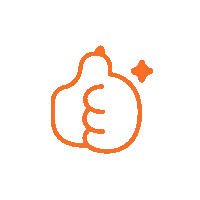
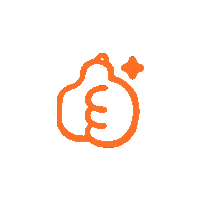
fix: 图标修改

Changed region(s): [[0.24, 0.21, 0.78, 0.78]]

diff --git a/src/pages/cats/social/detail.vue b/src/pages/cats/social/detail.vue
@@ -80,7 +80,7 @@
                       :src="
                         postDetail.is_liked === 1
                           ? '/static/images/unlike.png'
-                          : '/static/images/like.png'
+                          : '/static/images/zan0.33.png'
                       "
                       mode="aspectFit"
                       :style="{ opacity: postDetail.currentGif ? 0 : 1 }"
@@ -170,7 +170,7 @@
                             :src="
                               item.is_liked === 1
                                 ? '/static/images/unlike.png'
-                                : '/static/images/like.png'
+                                : '/static/images/zan0.33.png'
                             "
                             mode="aspectFit"
                             :style="{ opacity: item.currentGif ? 0 : 1 }"
@@ -250,7 +250,7 @@
                                     :src="
                                       reply.is_liked === 1
                                         ? '/static/images/unlike.png'
-                                        : '/static/images/like.png'
+                                        : '/static/images/zan0.33.png'
                                     "
                                     mode="aspectFit"
                                     :style="{ opacity: reply.currentGif ? 0 : 1 }"
@@ -990,7 +990,7 @@ const likePost = (id: number) => {
 
       setTimeout(() => {
         postDetail.value.currentGif = ''
-      }, 1000)
+      }, 800)
     })
     .finally(() => {
       // uni.hideLoading()
@@ -1022,7 +1022,7 @@ const likeComment = (item: any) => {
 
       setTimeout(() => {
         item.currentGif = ''
-      }, 1000)
+      }, 800)
     })
     .finally(() => {
       // uni.hideLoading()
@@ -1259,7 +1259,7 @@ const likeReply = async (replyItem: any, itemId: number) => {
 
           setTimeout(() => {
             targetReply.currentGif = ''
-          }, 1000)
+          }, 800)
         }
       }
     })
@@ -1684,15 +1684,15 @@ const handleOpenShare = (item: any) => {
             align-items: center;
             // justify-content: center;
             .zanWrapper {
-              width: 60rpx !important;
-              height: 60rpx !important;
+              width: 70rpx !important;
+              height: 70rpx !important;
               position: relative !important;
               display: inline-flex !important;
               align-items: center;
               justify-content: center;
               flex-shrink: 0 !important;
               vertical-align: middle;
-              margin: 0 -19rpx !important;
+              margin: 0 -22rpx !important;
               overflow: visible !important;
             }
             .Icon {
@@ -1840,15 +1840,15 @@ const handleOpenShare = (item: any) => {
   }
 }
 .zanWrapper {
-  width: 70rpx !important;
-  height: 70rpx !important;
+  width: 85rpx !important;
+  height: 85rpx !important;
   position: relative !important;
   display: inline-flex !important;
   align-items: center;
   justify-content: center;
   flex-shrink: 0 !important;
   vertical-align: middle;
-  margin: 0 -19rpx !important;
+  margin: 0 -22rpx !important;
   overflow: visible !important;
 
   .Icon {

diff --git a/src/style/social.scss b/src/style/social.scss
@@ -63,7 +63,7 @@
       background-size: 100%;
     }
     .jbBox {
-      background-image: url('@/static/images/jb.png');
+      background-image: url('@/static/images/more.png');
     }
     .socialHead {
       display: flex;
@@ -192,19 +192,19 @@
           background-size: 100% 100%;
         }
         .socialBtnIcon.view {
-          background-image: url('@/static/images/view@2x.png');
+          background-image: url('@/static/images/view.svg');
         }
         .socialBtnIcon.share {
-          background-image: url('@/static/images/share@2x.png');
+          background-image: url('@/static/images/share1.75.svg');
         }
         .socialBtnIcon.zan {
-          background-image: url('@/static/images/zan@2x.png');
+          background-image: url('@/static/images/zan0.33.png');
         }
         .socialBtnIcon.zan.on {
           background-image: url('@/static/images/zan_on@2x.png');
         }
         .socialBtnIcon.quote {
-          background-image: url('@/static/images/quote@2x.png');
+          background-image: url('@/static/images/message1.75.svg');
         }
       }
       .socialBtn {

diff --git a/src/components/discover/SocialTab.vue b/src/components/discover/SocialTab.vue
@@ -709,15 +709,15 @@ const shareRef = ref<any>(null)
   background-color: #fff;
 }
 .zanWrapper {
-  width: 70rpx !important;
-  height: 70rpx !important;
+  width: 85rpx !important;
+  height: 85rpx !important;
   position: relative !important;
   display: inline-flex !important;
   align-items: center;
   justify-content: center;
   flex-shrink: 0 !important;
   vertical-align: middle;
-  margin: 0 -19rpx !important;
+  margin: 0 -22rpx !important;
   overflow: visible !important;
 
   .Icon {
